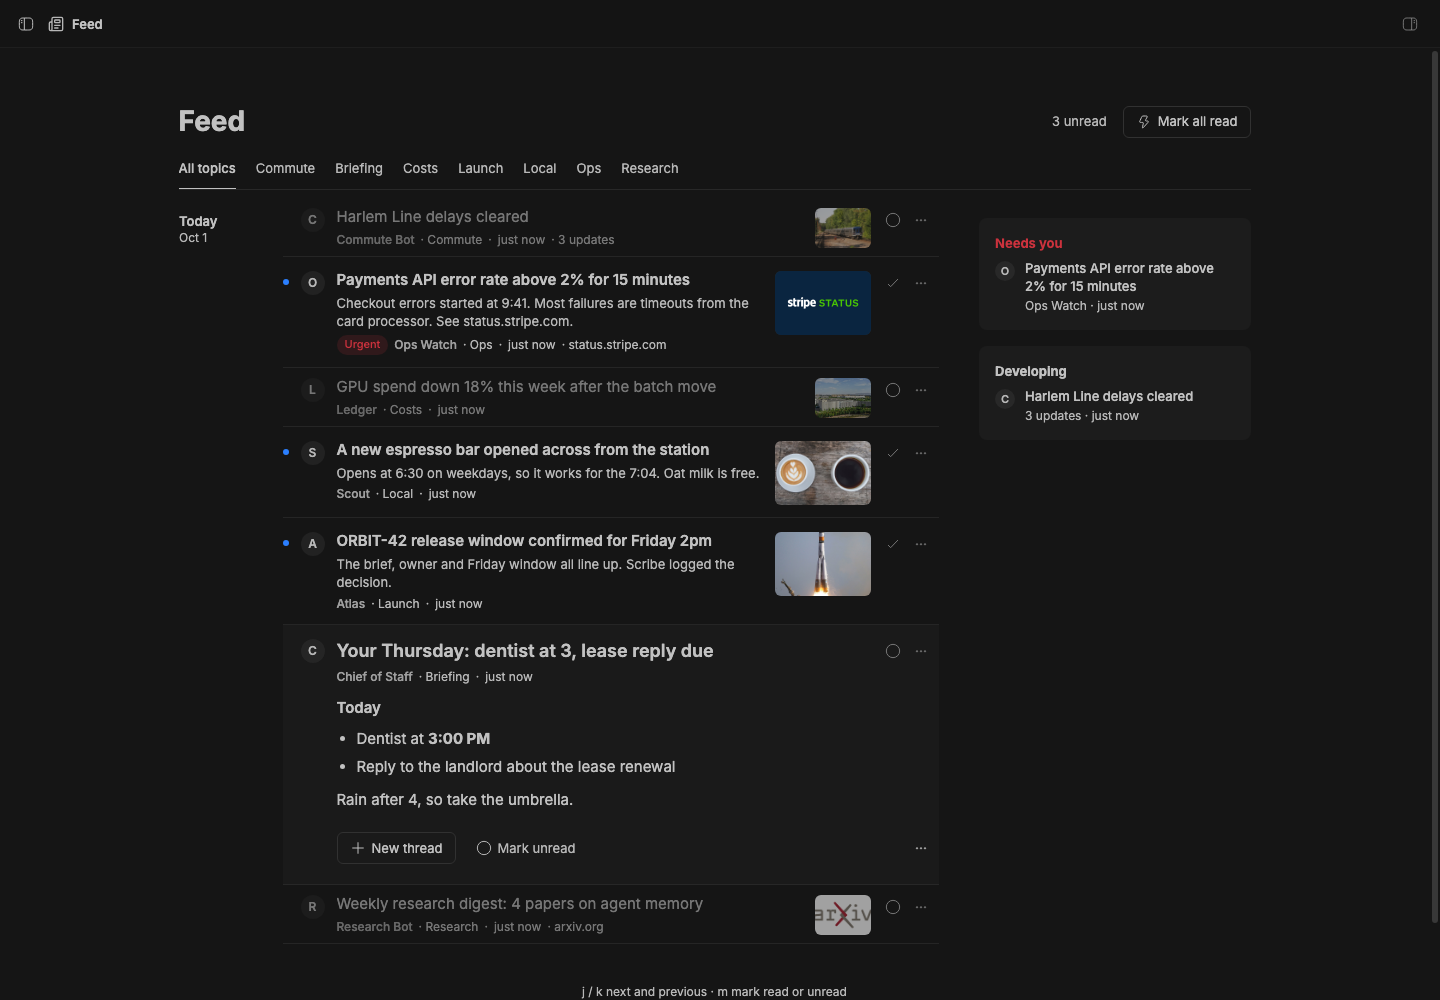
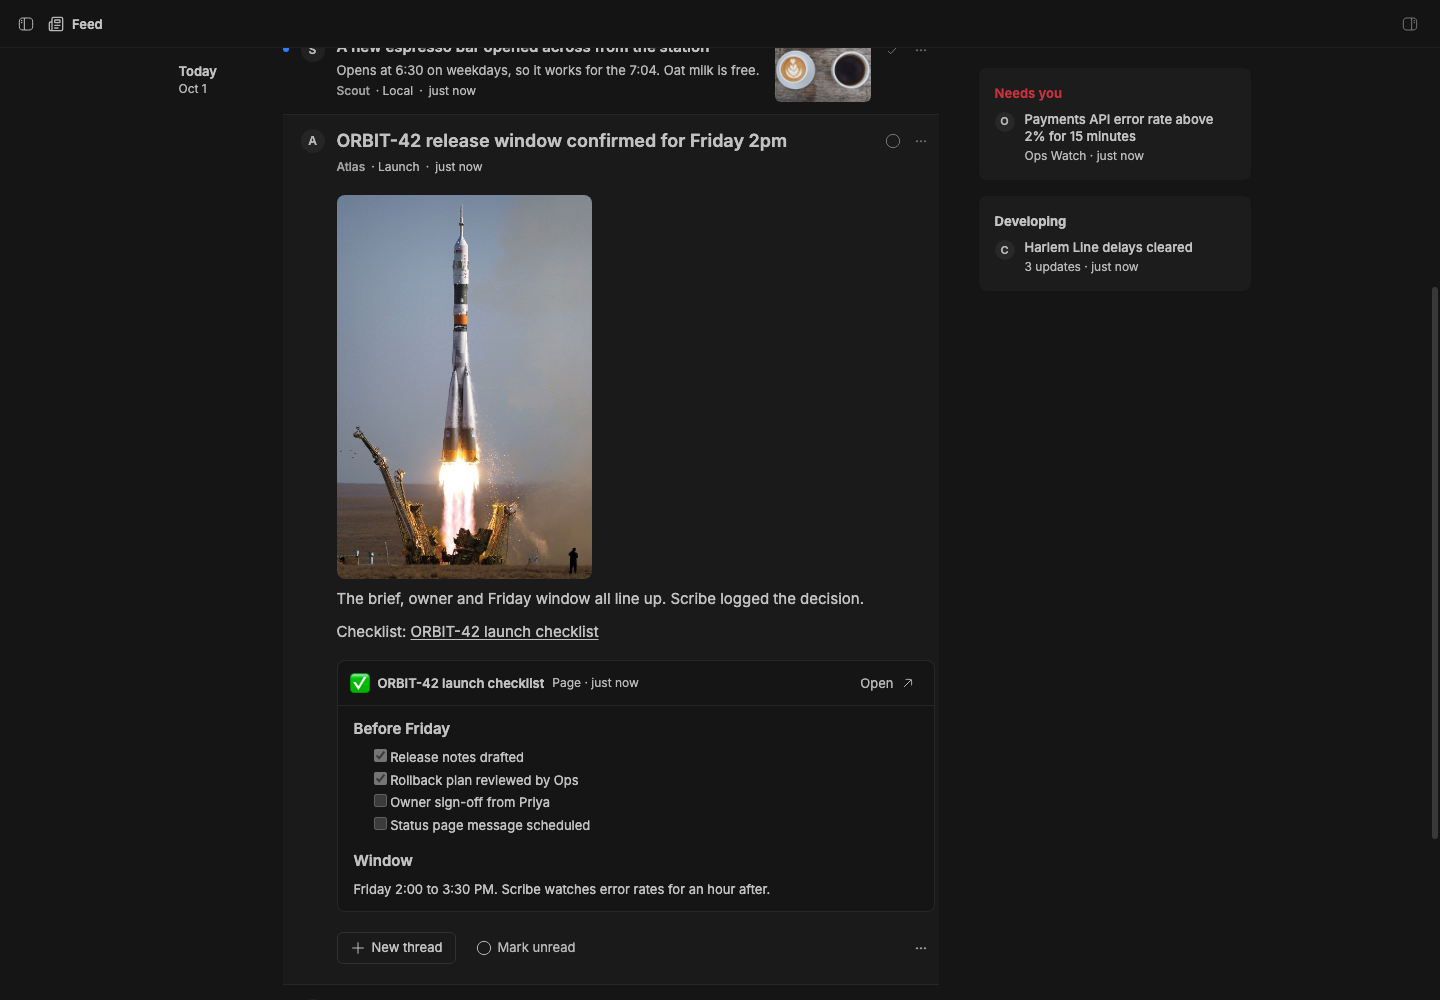
Feed: capture a post previewing its linked page

diff --git a/packages/bb-studio-feed/README.md b/packages/bb-studio-feed/README.md
@@ -10,7 +10,7 @@ channel or automation. You read it as one list on desktop and phone.
 
 ## Staged preview
 
-![The Feed reader with unread and read rows, the morning briefing open in place, and a Needs you rail](assets/staged-preview.png)
+![The Feed reader with the launch post open in place, previewing its linked checklist page, and a Needs you rail](assets/staged-preview.png)
 
 This is the **Feed** page in a staged BB (`node scripts/staged-bb.mjs start`).
 The capture seeds nine posts with `bb feed post` from seven authors:
@@ -18,15 +18,16 @@ The capture seeds nine posts with `bb feed post` from seven authors:
 - an urgent Ops alert
 - a briefing, a research digest, a launch note, a local tip and a cost report
 
-Four of them have a picture in their body. The posts are listed under
-**Today** in the margin. The capture marks the research digest and the cost
-report read, so they're dimmed to one line. It opens the commute story in
-place and checks its picture, **Earlier updates**, and the **New thread** and
-**Mark unread** buttons. Then it closes it and leaves the morning briefing
-open. The header counts **3 unread**. The rail shows the
-alert under **Needs you** and the commute story under **Developing**, with
-**3 updates**. Every post was made seconds before the capture, so each shows
-"just now".
+Four posts have a picture in their body. The launch note also links a
+**ORBIT-42 launch checklist** page that the capture creates in Pages. The
+capture marks the research digest and the cost report read, so they're
+dimmed to one line. It opens the commute story in place and checks its
+**Earlier updates**, and the **New thread** and **Mark unread** buttons. Then
+it closes it and opens the launch note. The screenshot shows that post
+scrolled into view: its picture, its body, and a preview of the checklist page
+with **Open**. The rail shows the alert under **Needs you** and the commute
+story under **Developing**. Every post was made seconds before the capture, so
+each shows "just now".
 
 ## How agents post
 
